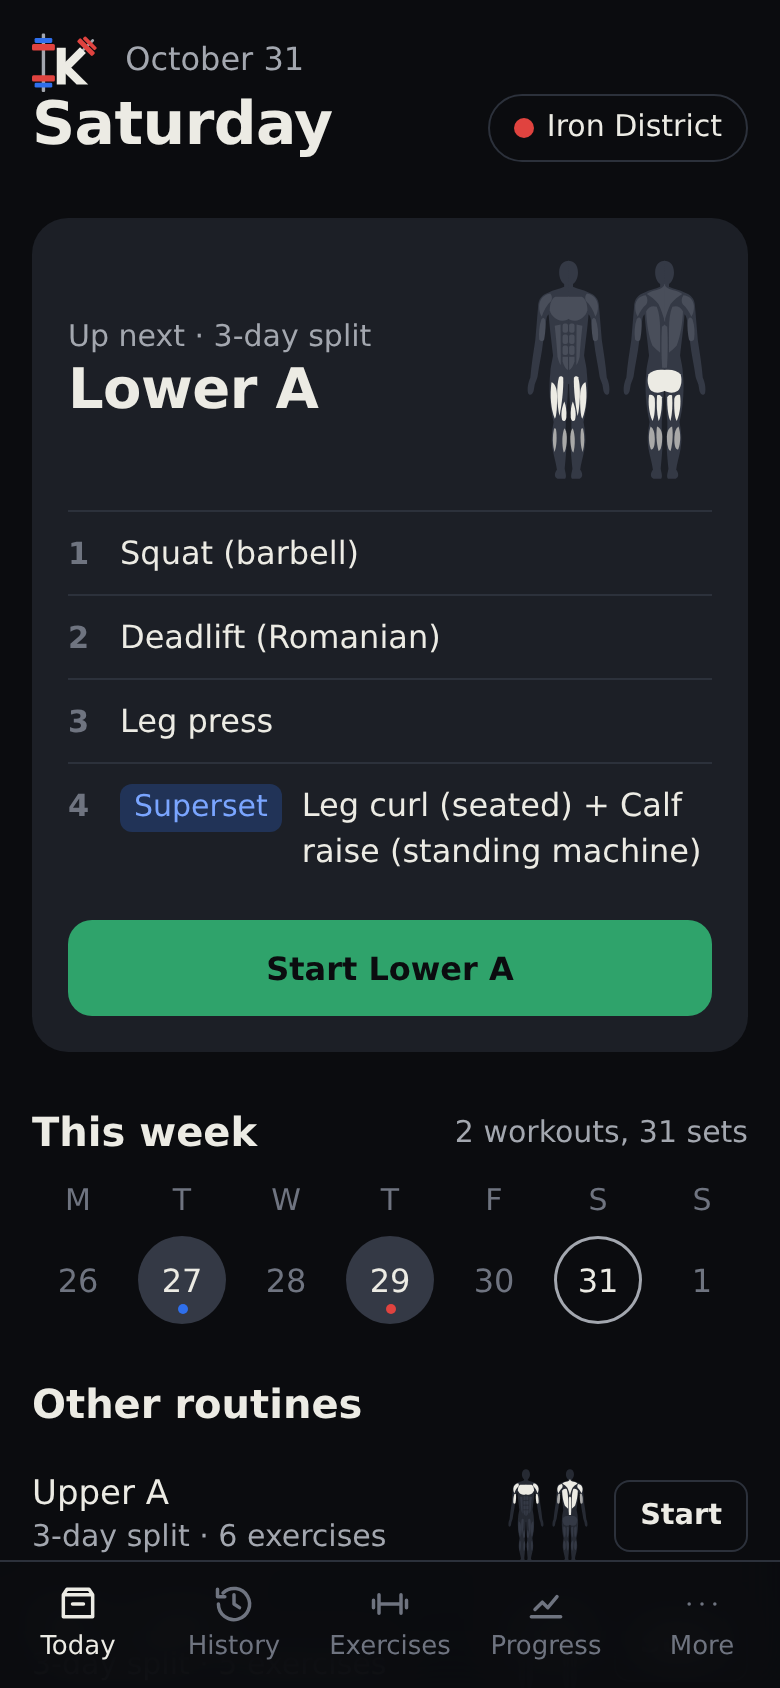
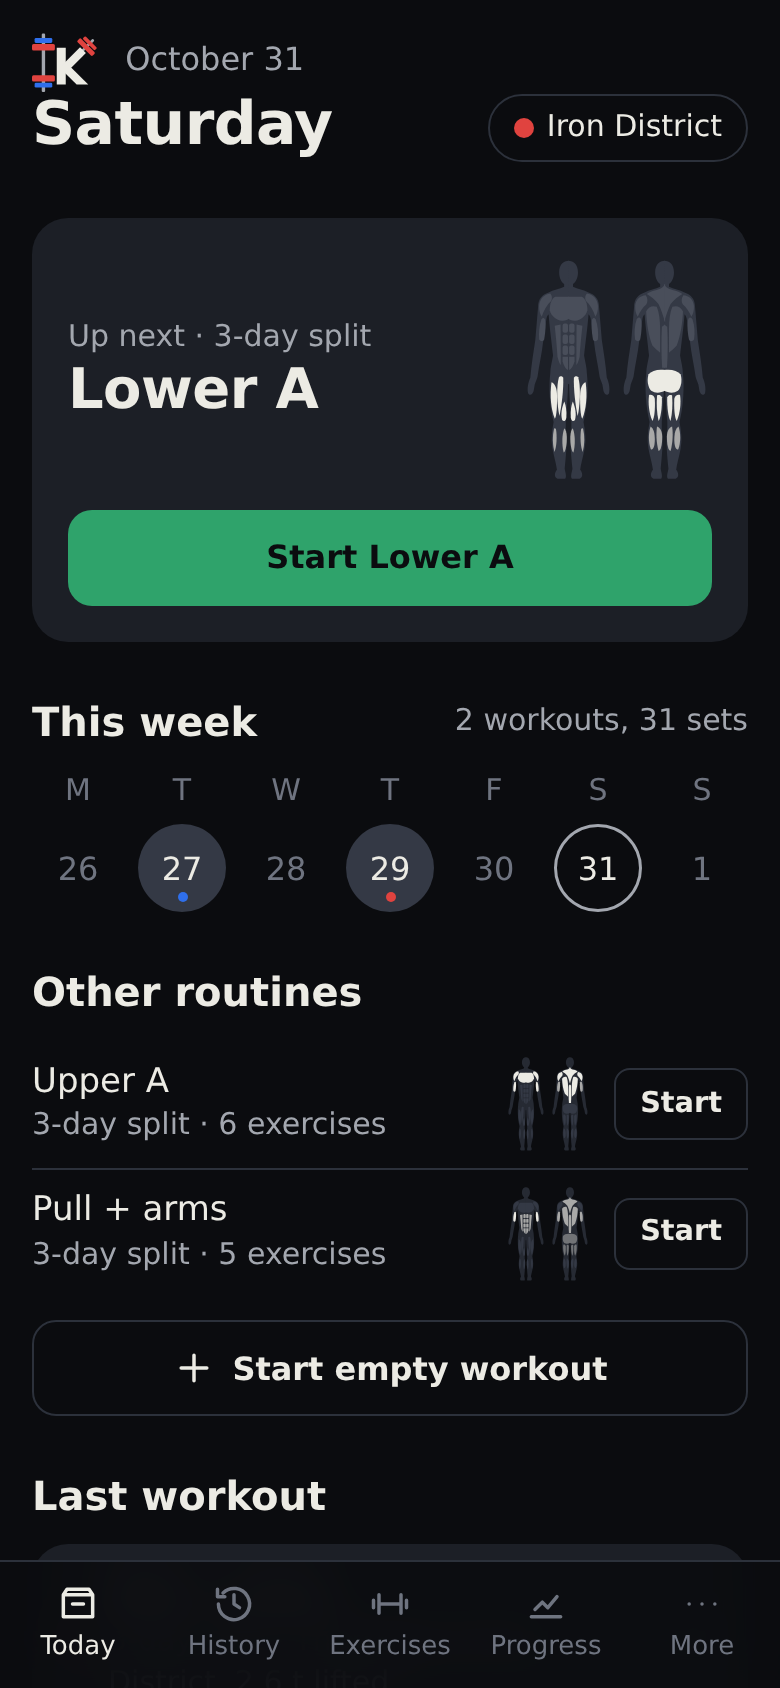
Today: drop the exercise list from the Up next card

diff --git a/src/routes/Today.svelte b/src/routes/Today.svelte
@@ -48,10 +48,6 @@
     startWorkout(r?.id);
     navigate('/workout');
   }
-
-  function outline(r: Routine) {
-    return r.blocks.map((b) => b.items.map((i) => exercise(i.exerciseId)?.name ?? 'Unknown'));
-  }
 </script>
 
 <section class="page">
@@ -90,14 +86,6 @@
         </div>
         <MuscleMap sets={routineSetsPerMuscle(next, exercise)} height={112} />
       </div>
-      <ol class="outline">
-        {#each outline(next) as names, i (i)}
-          <li class:ss={names.length > 1}>
-            {#if names.length > 1}<span class="ss-tag small">Superset</span>{/if}
-            {names.join(' + ')}
-          </li>
-        {/each}
-      </ol>
       <button class="btn go block" onclick={() => start(next)}>Start {dayOf(next.name)}</button>
     </article>
   {/if}
@@ -179,13 +167,6 @@
   .next p { margin: 0; }
   .next-head { display: flex; align-items: center; gap: 12px; --map-body: var(--iron-3); --map-rest: color-mix(in srgb, var(--chalk-faint) 35%, var(--iron-3)); }
   .next-name { font: 700 1.75rem/1.15 var(--font); letter-spacing: -0.01em; overflow-wrap: anywhere; }
-  .outline { margin: 0; padding: 0; list-style: none; display: grid; gap: 0; counter-reset: ex; }
-  .outline li {
-    counter-increment: ex; display: flex; align-items: baseline; gap: 10px; padding: 9px 0;
-    border-top: 1px solid var(--line); font-weight: 500; overflow-wrap: anywhere;
-  }
-  .outline li::before { content: counter(ex); width: 16px; flex: none; color: var(--chalk-faint); font: 600 0.95rem var(--font-num); }
-  .ss-tag { flex: none; padding: 1px 7px; border-radius: 6px; background: color-mix(in srgb, var(--plate-blue) 25%, transparent); color: var(--ink-blue); }
 
   .week { display: grid; grid-template-columns: repeat(7, 1fr); gap: 6px; margin: 0; padding: 0; list-style: none; }
   .week li { display: grid; justify-items: center; gap: 6px; }
